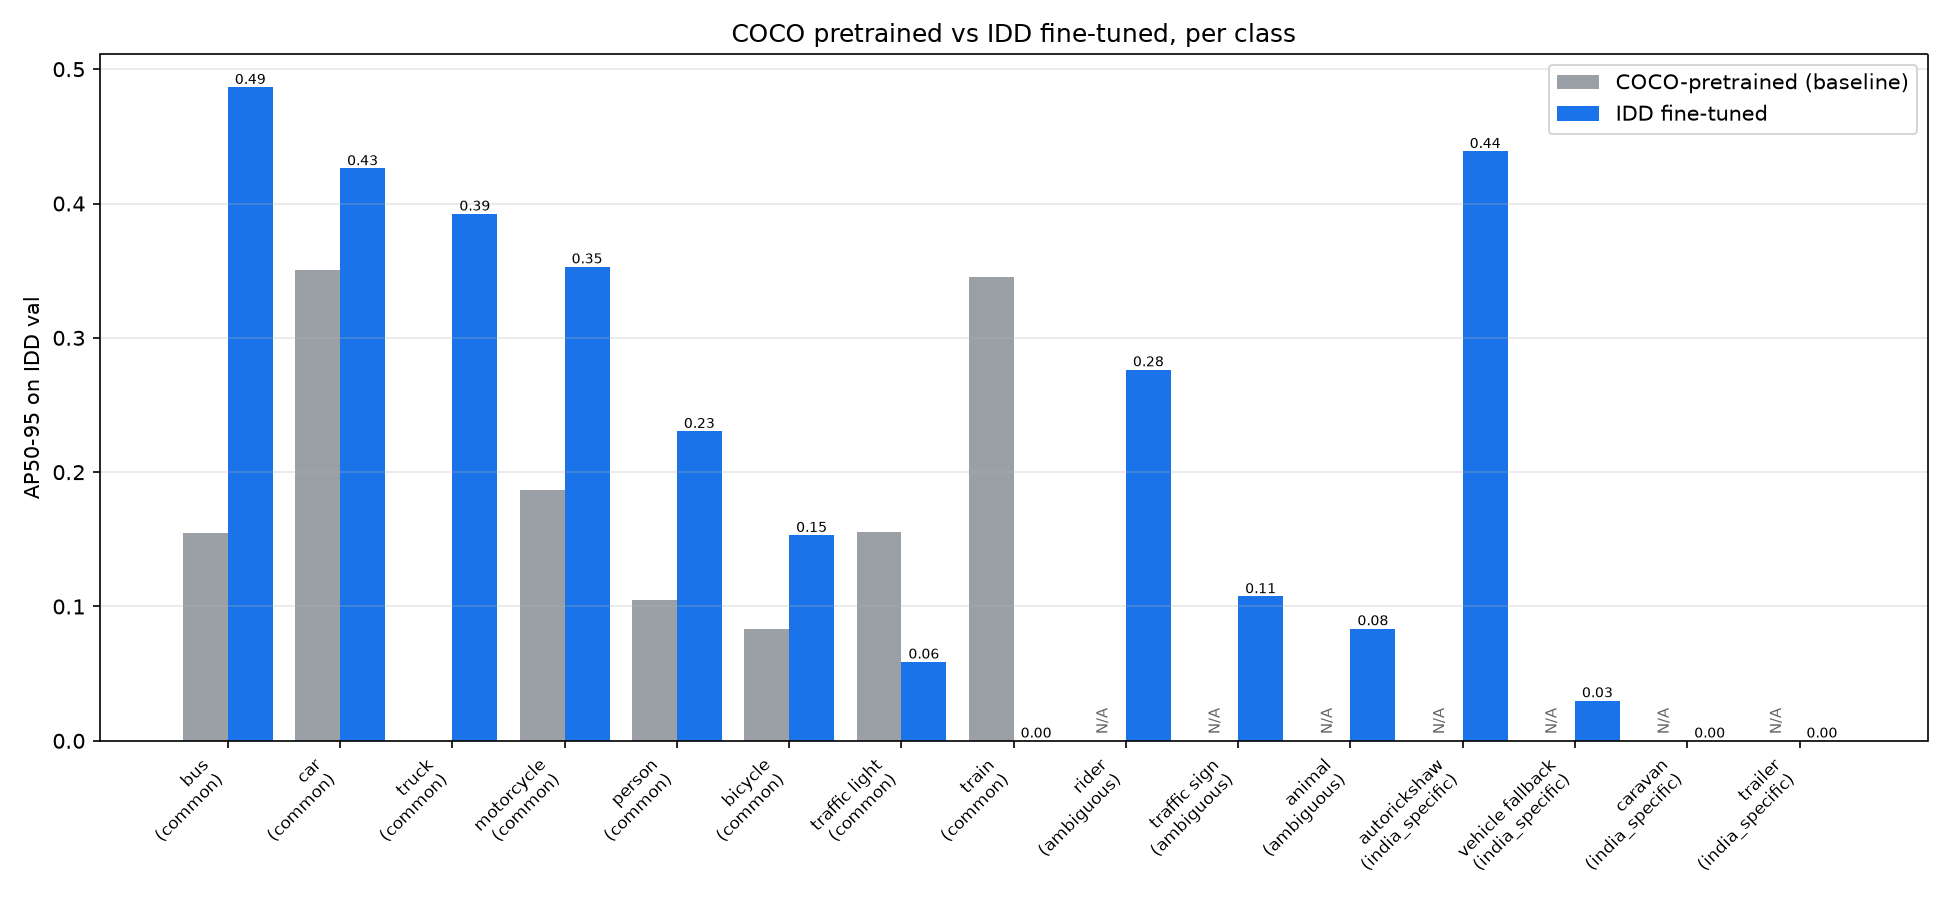
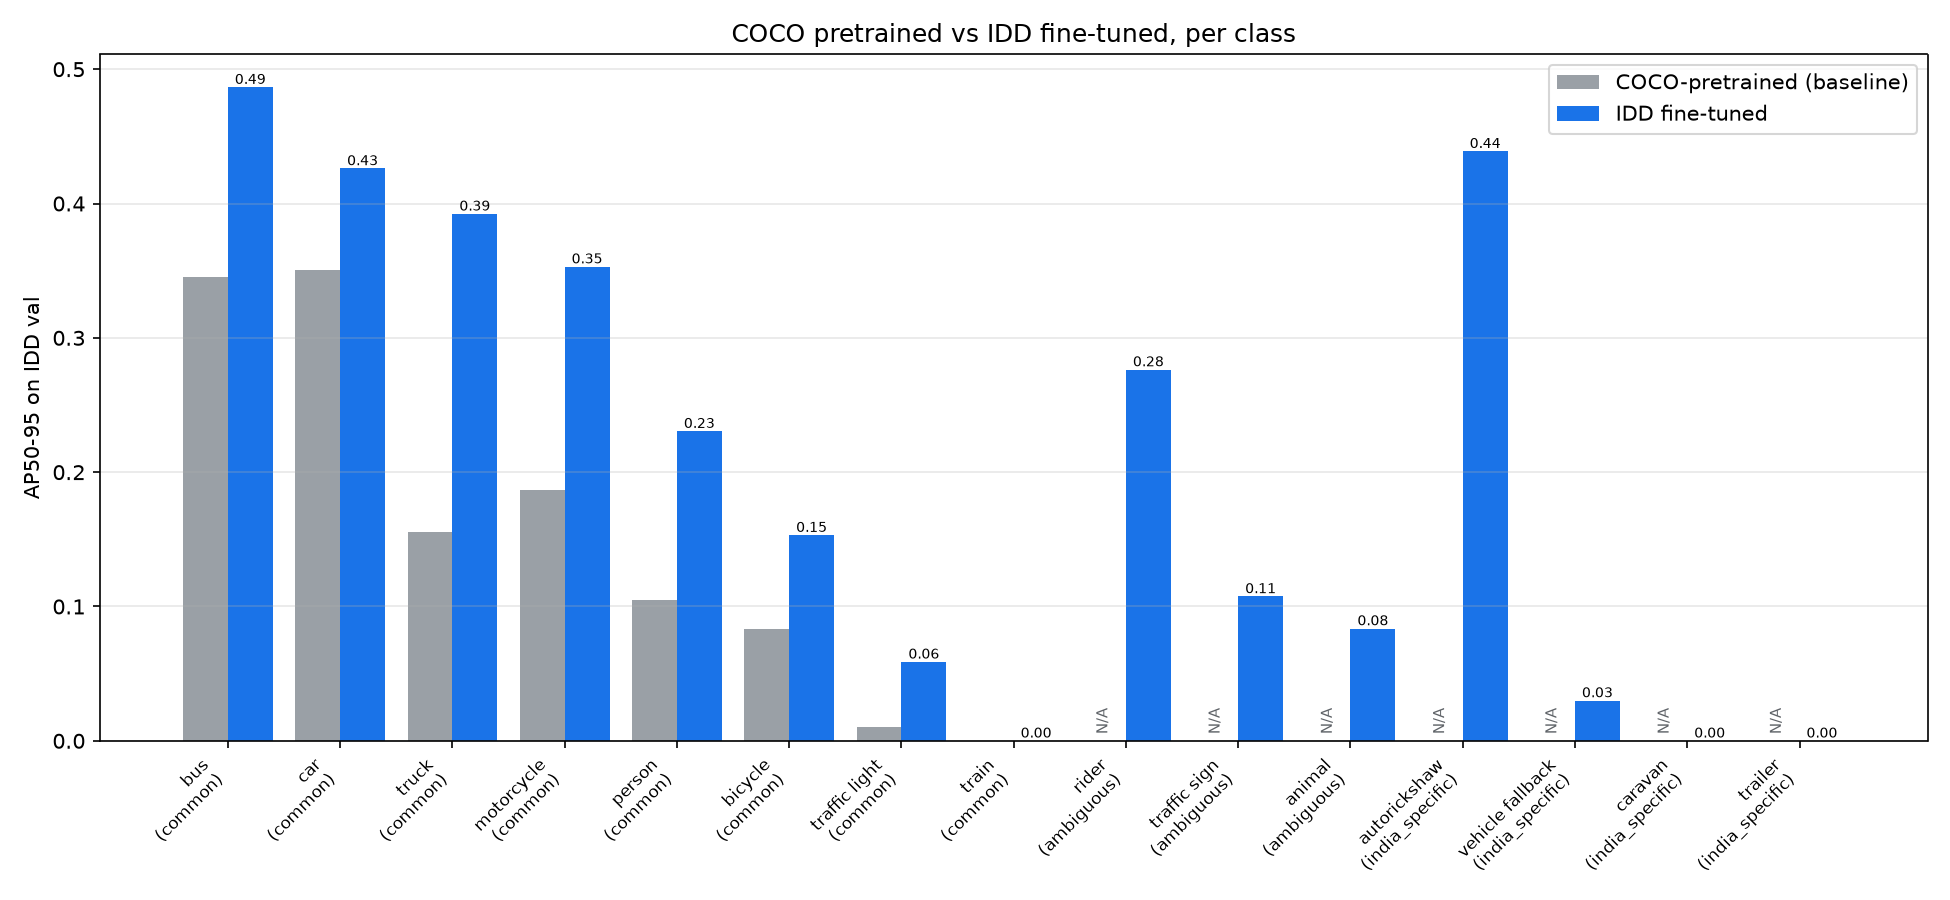
fix baseline per-class AP indexing and re-run the COCO baseline
box.maps is indexed by class id (one slot per class in the label space; classes without
ground truth hold the overall mAP) while box.ap_class_index lists only classes that have
ground truth. evaluate.py zipped the two by position, which shifted every value after the
first absent class id. For the 80-class COCO baseline this gave bus the overall mAP and moved
bus/train/truck/traffic light values onto the wrong classes. The fine-tuned run was not
affected (all 15 classes have ground truth).

ap_by_class_id() now looks each class up by id, with a regression test. Baseline re-run on the
same 10,225 val images: bus 0.3456, truck 0.1553, train 0.0000, traffic light 0.0104.
results_report.md is rewritten from the re-run: no supported class regresses, the 7-class common
mean goes 0.177 -> 0.300 (+70%), and a correction note records what changed.

diff --git a/scripts/evaluate.py b/scripts/evaluate.py
@@ -92,6 +92,18 @@ def build_eval_dir(yolo_root: Path, split: str, id_map: dict[int, int], out_dir:
     return stems, kept, dropped, empty
 
 
+def ap_by_class_id(ap_class_index, maps) -> dict[int, float]:
+    """AP50-95 per class id that has ground truth.
+
+    Ultralytics' `box.maps` has one slot per class in the label space, indexed by class id, and
+    classes with no ground truth hold the overall mAP. `ap_class_index` lists only the classes
+    that do have ground truth. Pairing them by position (`zip`) shifts every value whenever a
+    class id is absent, which is the normal case for the 80-class COCO baseline, so look each
+    class up by its id.
+    """
+    return {int(c): float(maps[int(c)]) for c in ap_class_index}
+
+
 def group_means(per_class: dict[str, float], groups: dict[str, str]) -> dict[str, float]:
     buckets: dict[str, list[float]] = {}
     for name, ap in per_class.items():
@@ -152,15 +164,13 @@ def main():
     metrics = model.val(data=str(data_yaml), split=args.split, imgsz=args.imgsz, batch=args.batch,
                         device=args.device, conf=args.conf, iou=args.iou, plots=False, verbose=False)
 
-    box = metrics.box
-    idx = [int(i) for i in box.ap_class_index]
-    aps = [float(v) for v in box.maps]
+    ap_by_id = ap_by_class_id(metrics.box.ap_class_index, metrics.box.maps)
 
     if args.coco_baseline:
         back = {c.coco_ids[0]: c.name for c in direct}
-        per_class = {back[i]: round(a, 4) for i, a in zip(idx, aps) if i in back}
+        per_class = {back[i]: round(a, 4) for i, a in ap_by_id.items() if i in back}
     else:
-        per_class = {eval_names[i]: round(a, 4) for i, a in zip(idx, aps) if i < len(eval_names)}
+        per_class = {eval_names[i]: round(a, 4) for i, a in ap_by_id.items() if i < len(eval_names)}
 
     summary = {
         "tag": args.tag,

diff --git a/tests/test_pipeline.py b/tests/test_pipeline.py
@@ -168,3 +168,13 @@ def test_group_means_averages_only_scored_classes():
     assert group_means({"person": 0.4, "car": 0.2}, groups) == {"common": 0.3}
     assert group_means({}, groups) == {}
 
+
+
+def test_ap_by_class_id_survives_absent_classes():
+    """Regression: with absent class ids, `maps` is id-indexed but `ap_class_index` is compact.
+    Pairing them by position gave bus the overall mAP and shifted every later class."""
+    from scripts.evaluate import ap_by_class_id
+
+    # 10-slot label space; only ids 0, 1, 5, 7 have ground truth. Absent ids hold the overall mean 0.5.
+    maps = [0.1, 0.2, 0.5, 0.5, 0.5, 0.6, 0.5, 0.7, 0.5, 0.5]
+    assert ap_by_class_id([0, 1, 5, 7], maps) == {0: 0.1, 1: 0.2, 5: 0.6, 7: 0.7}

diff --git a/docs/results_report.md b/docs/results_report.md
@@ -11,11 +11,19 @@ Every number here was produced by an executed run. The commands are at the botto
 
 | Question | Answer |
 |---|---|
-| Does IDD fine-tuning help at all? | **Yes.** On the 7 comparable classes the mean AP50-95 went **0.148 → 0.300**, a **+103% relative** gain. |
-| Where is the gain largest? | **bus (+0.33)**, **truck (+0.39)**, **motorcycle (+0.17)**, **person (+0.13)**. A COCO model scores **0.00** on IDD `truck`; after fine-tuning it reaches **0.39**. |
+| Does IDD fine-tuning help at all? | **Yes.** On the 7 comparable classes with enough val boxes the mean AP50-95 went **0.177 → 0.300** (+0.123, **+70% relative**). |
+| Where is the gain largest? | **truck (+0.24)**, **motorcycle (+0.17)**, **bus (+0.14)**, **person (+0.13)**. `truck` went 0.155 → 0.392, the largest jump in absolute terms. |
 | Do India-specific classes benefit more? | **They cannot be compared, and that is the finding.** A COCO detector has no output class for `autorickshaw`, `vehicle fallback`, `caravan` or `trailer`, so it is scored **N/A**, never 0. After fine-tuning `autorickshaw` reaches **0.439** — the second-best class in the whole model, above `car`. |
 | How much of the dataset is the baseline blind to? | **35.0% of val boxes** (44,154 of 126,059) belong to classes a COCO model cannot name. |
-| Any regressions? | Two: `traffic light` (0.155 → 0.059) and `train` (0.346 → 0.000). Both are discussed in §6. |
+| Any regressions? | **None on the 7 supported classes.** `train` is 0.000 → 0.000, but it has only 13 val boxes, so it is noise (§6). |
+
+> **Correction (2026-11-22).** An earlier version of this report, and of `results/eval_coco_baseline.json`,
+> carried wrong baseline AP for `bus`, `train`, `truck` and `traffic light`: per-class AP was paired with
+> class ids by list position instead of by id, which shifts values whenever a class has no ground truth
+> (the normal case for the 80-class COCO model). It reported "truck 0.00 → 0.39" and two regressions that
+> do not exist. The code is fixed (`ap_by_class_id` in `scripts/evaluate.py`, with a regression test), the
+> baseline was re-run, and every number below comes from that re-run. The fine-tuned numbers were never
+> affected.
 
 ---
 
@@ -95,14 +103,14 @@ the 10,225 val images — it is what decides whether an AP is informative.
 
 | Class | Group | Val boxes | Baseline | Fine-tuned | Δ |
 |---|---|---:|---:|---:|---:|
-| bus | common | 4,916 | 0.1546 | **0.4866** | **+0.3320** |
+| bus | common | 4,916 | 0.3456 | **0.4866** | +0.1410 |
 | car | common | 24,843 | 0.3505 | **0.4261** | +0.0756 |
-| truck | common | 7,078 | 0.0000 | **0.3923** | **+0.3923** |
+| truck | common | 7,078 | 0.1553 | **0.3923** | **+0.2370** |
 | motorcycle | common | 25,489 | 0.1866 | **0.3530** | +0.1664 |
 | person | common | 18,078 | 0.1048 | **0.2305** | +0.1257 |
 | bicycle | common | 569 | 0.0836 | **0.1531** | +0.0695 |
-| traffic light | common | 919 | 0.1553 | 0.0588 | **−0.0965** |
-| train | common | 13 | 0.3456 | 0.0000 | **−0.3456** |
+| traffic light | common | 919 | 0.0104 | 0.0588 | +0.0484 |
+| train | common | 13 | 0.0000 | 0.0000 | 0.0000 |
 | rider | ambiguous | 24,518 | N/A | **0.2764** | — |
 | traffic sign | ambiguous | 4,287 | N/A | 0.1075 | — |
 | animal | ambiguous | 1,460 | N/A | 0.0836 | — |
@@ -113,11 +121,11 @@ the 10,225 val images — it is what decides whether an AP is informative.
 
 `N/A` = the baseline has no output class for it. It is **not** a zero.
 
-**6 of the 8 comparable classes improved**, mean **+0.194** over those 6, and **+0.090** over all 8
-(the two regressions below pull the second number down).
+**7 of the 8 comparable classes improved** and none got worse; the 8th, `train`, is 0.000 → 0.000 on 13 val
+boxes (§6). The mean change is **+0.123** over the 7 supported classes and **+0.108** over all 8.
 
 `autorickshaw` at **0.4389** is worth pausing on: it is a class COCO has never seen, it is 7,782 val
-boxes (the 5th most common class in the split), and it beats `car` (0.4261) and `truck` (0.3923).
+boxes (the 5th most common class in the split), and it beats `car` (0.4261) and `truck` (0.3923). Only `bus` (0.4866) scores higher.
 Fine-tuning did not merely transfer; it learned a genuinely new, frequently-occurring object.
 
 ---
@@ -126,7 +134,7 @@ Fine-tuning did not merely transfer; it learned a genuinely new, frequently-occu
 
 | Group | Classes scoreable by baseline | Baseline | Fine-tuned (all) | Fine-tuned (supported only) |
 |---|---:|---:|---:|---:|
-| common | 8 / 8 | 0.1726 | 0.2626 | **0.3001** |
+| common | 8 / 8 | 0.1546 | 0.2626 | **0.3001** |
 | ambiguous | **0 / 3** | N/A | 0.1558 | 0.1558 |
 | india_specific | **0 / 4** | N/A | 0.1172 | **0.2345** |
 
@@ -136,15 +144,15 @@ becomes:
 
 | | Baseline | Fine-tuned | Change |
 |---|---:|---:|---:|
-| common (7 classes) | 0.1479 | 0.3001 | **+0.1522 (+103%)** |
+| common (7 classes) | 0.1767 | 0.3001 | **+0.1234 (+70%)** |
 | india_specific (2 classes) | N/A | 0.2345 | not computable |
 | ambiguous (3 classes) | N/A | 0.1558 | not computable |
 
 **How to read this.** The project's hypothesis was "fine-tuning helps India-specific classes more". The
 data supports a sharper version of it:
 
-1. For **common** classes the baseline already works, and fine-tuning **doubles** the score. This is
-   ordinary domain adaptation.
+1. For **common** classes the baseline already works, and fine-tuning raises the mean AP by about **70%**
+   (0.177 → 0.300). This is ordinary domain adaptation.
 2. For **India-specific** classes there is no "before" number, because the baseline's head has no slot to
    put them in. The improvement is therefore not a percentage — it goes from **structurally impossible**
    to **0.44 on autorickshaw**. That is a categorically different kind of gain.
@@ -154,19 +162,22 @@ data supports a sharper version of it:
 
 ---
 
-## 6. The two regressions
+## 6. Two rows to read with care
 
-### `traffic light`: 0.1553 → 0.0588
+No supported class regressed, but two rows should not be over-read.
 
-Real, and not noise (919 val boxes). Two plausible causes, neither proven here:
-the IDD `traffic light` boxes are small and often partially occluded, and the 15-class head now spends
-capacity on classes that occur 10–80× more often. Recall on this class is the thing to inspect next.
+### `traffic light`: 0.0104 → 0.0588
 
-### `train`: 0.3456 → 0.0000
+Improved, yet both numbers are low. Fine-tuning raised it about 5.7×, but 0.059 is still the weakest of
+the classes with real support (919 val boxes). Likely reasons, neither proven here: IDD `traffic light`
+boxes are small and often partially occluded, and the 15-class head spends capacity on classes that occur
+10–80× more often. Recall on this class is the thing to inspect next.
 
-Almost certainly noise. `train` has **13 val boxes and 47 training boxes** in the entire dataset. The
-baseline scores 0.35 on 13 boxes, the fine-tuned model scores 0.00 — both numbers are essentially a coin
-flip. Nothing should be concluded from this row; it is reported because hiding a zero would be worse.
+### `train`: 0.0000 → 0.0000
+
+Noise. `train` has **13 val boxes and 47 training boxes** in the entire dataset, so neither model gives a
+usable measurement. Nothing should be concluded from this row; it is reported because hiding a zero would
+be worse.
 
 ---
 
@@ -191,9 +202,10 @@ of confidence-threshold tuning fixes that; it is a property of the label space. 
 
 1. **23 of 30 epochs.** The run was cut short by the Colab free-GPU quota. The curve was flattening
    (see §3), so the expected gain from the missing epochs is ≈ +0.003 mAP50-95.
-2. **A single seed.** No run-to-run variance was measured, so treat the three smallest deltas
-   (`car +0.076`, `bicycle +0.070`, `traffic light −0.097`) as indicative rather than established, and
-   the large ones (`truck +0.392`, `bus +0.332`, `autorickshaw` appearing from nothing) as robust.
+2. **A single seed.** No run-to-run variance was measured, so treat the smallest deltas
+   (`traffic light +0.048`, `bicycle +0.070`, `car +0.076`) as indicative rather than established, and
+   the large ones (`truck +0.237`, `motorcycle +0.166`, `bus +0.141`, `autorickshaw` appearing from
+   nothing) as more likely to hold.
 3. **`yolo11n` only.** This is the smallest model in the family. A larger backbone would raise every
    number, so the absolute values are not a claim about what YOLO can do in general.
 4. **Nano model, CPU evaluation.** Inference ran on CPU with fp32; GPU fp16 would give slightly different
@@ -205,6 +217,9 @@ of confidence-threshold tuning fixes that; it is a property of the label space. 
    makes it inherently hard; the low AP says something about the taxonomy, not only about the model.
 7. **One dataset, one split.** Everything is IDD's own val split. No cross-dataset transfer was tested, so
    "fine-tuning generalises to other Indian roads" is not supported by this experiment.
+8. **Checkpoint chosen on the same split it is scored on.** `best.pt` is the best epoch by val mAP and is then
+   evaluated on val, because the public release has no test labels. The reported fine-tuned numbers are
+   therefore slightly optimistic. Here the best epoch is also the last one, which limits the effect.
 
 ---
 
